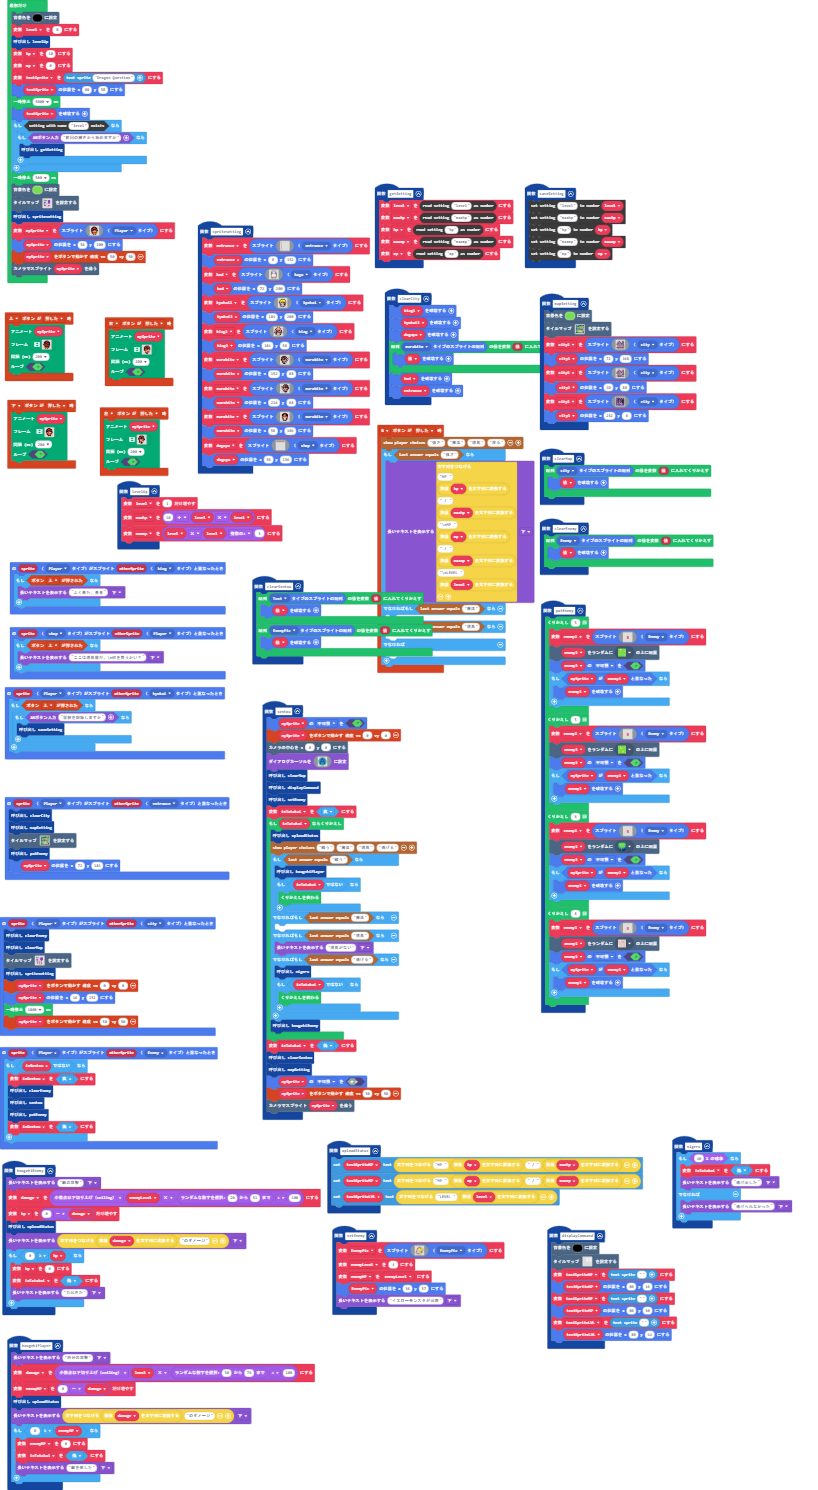
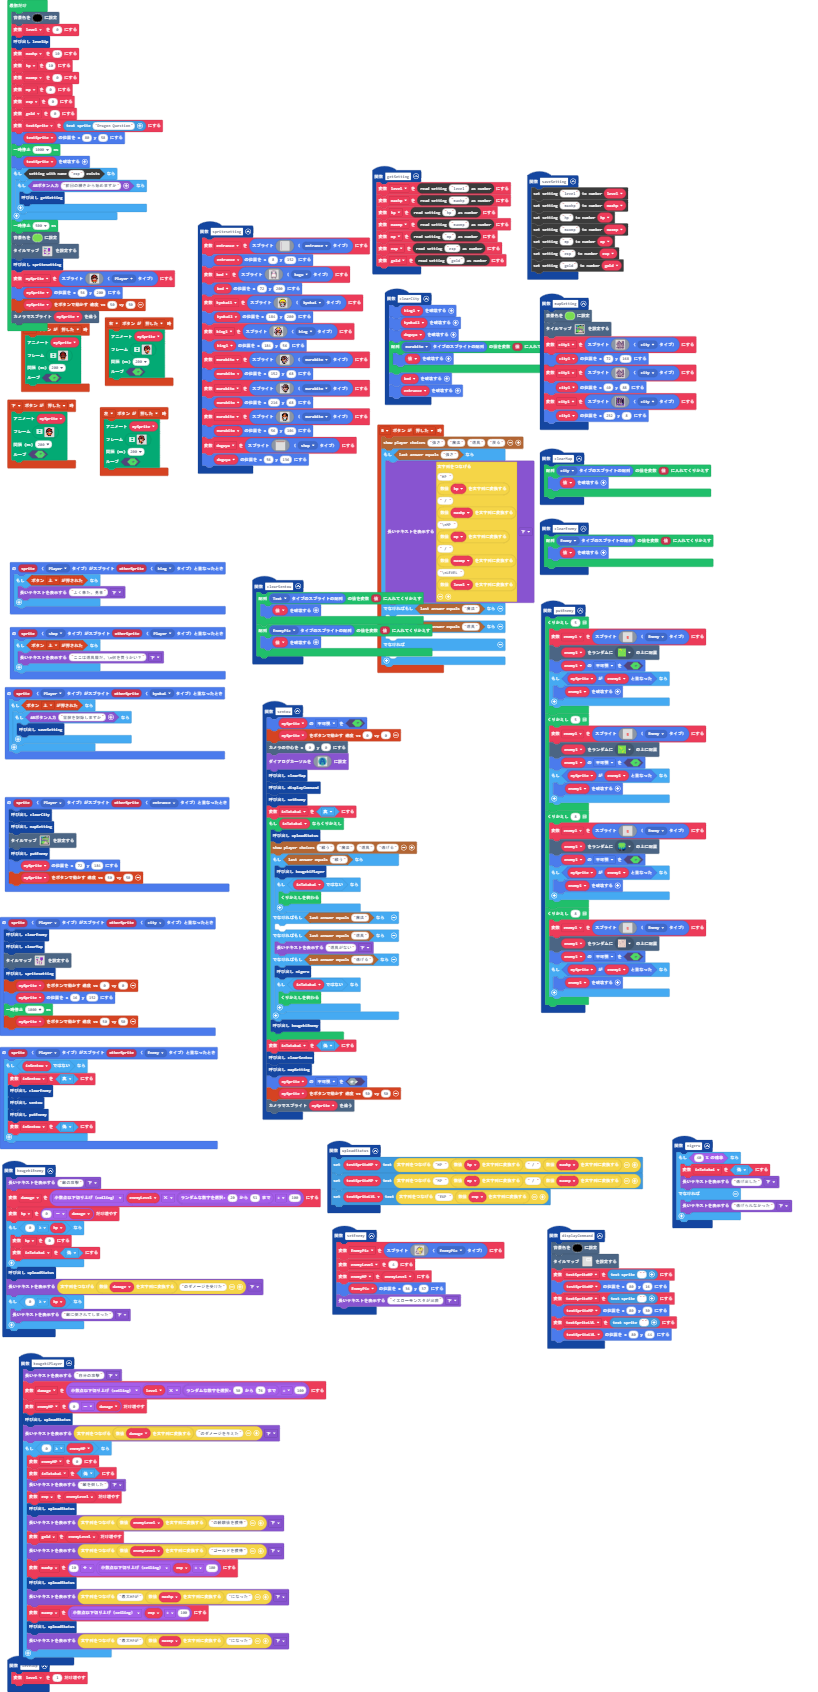
LEVEL消去

diff --git a/main.ts b/main.ts
@@ -90,6 +90,8 @@ function getSetting () {
     hp = blockSettings.readNumber("hp")
     maxmp = blockSettings.readNumber("maxmp")
     mp = blockSettings.readNumber("mp")
+    exp = blockSettings.readNumber("exp")
+    gold = blockSettings.readNumber("gold")
 }
 function putEnemy () {
     for (let index = 0; index < 5; index++) {
@@ -360,11 +362,22 @@ function kougekiPlayer () {
     damage = Math.ceil(level * (randint(30, 76) / 100))
     enemyHP += 0 - damage
     uploadStatus()
-    game.showLongText("" + convertToText(damage) + "のダメージ", DialogLayout.Bottom)
+    game.showLongText("" + convertToText(damage) + "のダメージを与えた", DialogLayout.Bottom)
     if (0 >= enemyHP) {
         enemyHP = 0
         inTatakai = false
         game.showLongText("敵を倒した", DialogLayout.Bottom)
+        exp += enemyLevel
+        uploadStatus()
+        game.showLongText("" + convertToText(enemyLevel) + "の経験値を獲得", DialogLayout.Bottom)
+        gold += enemyLevel
+        game.showLongText("" + convertToText(enemyLevel) + "ゴールドを獲得", DialogLayout.Bottom)
+        maxhp = 10 + Math.ceil(exp / 100)
+        uploadStatus()
+        game.showLongText("最大HPが" + convertToText(maxhp) + "になった", DialogLayout.Bottom)
+        maxmp = Math.ceil(exp / 100)
+        uploadStatus()
+        game.showLongText("最大MPが" + convertToText(maxmp) + "になった", DialogLayout.Bottom)
     }
 }
 function clearSentou () {
@@ -381,11 +394,12 @@ sprites.onOverlap(SpriteKind.Player, SpriteKind.entrance, function (sprite, othe
     tiles.setTilemap(tilemap`レベル2`)
     putEnemy()
     mySprite.setPosition(72, 184)
+    controller.moveSprite(mySprite, 50, 50)
 })
 function uploadStatus () {
     testSpriteHP.setText("HP " + convertToText(hp) + " / " + convertToText(maxhp))
     textSpriteMP.setText("MP " + convertToText(mp) + " / " + convertToText(maxmp))
-    textSpriteLVL.setText("LEVEL " + convertToText(level))
+    textSpriteLVL.setText("EXP " + convertToText(exp))
 }
 function sentou () {
     mySprite.setFlag(SpriteFlag.Invisible, true)
@@ -446,8 +460,6 @@ function nigeru () {
 }
 function levelUp () {
     level += 1
-    maxhp = 10 + level * level
-    maxmp = Math.idiv(level * level, 3)
 }
 controller.down.onEvent(ControllerButtonEvent.Pressed, function () {
     animation.runImageAnimation(
@@ -762,12 +774,14 @@ function kougekiEnemy () {
     game.showLongText("敵の攻撃", DialogLayout.Bottom)
     damage = Math.ceil(enemyLevel * (randint(20, 51) / 100))
     hp += 0 - damage
-    uploadStatus()
-    game.showLongText("" + convertToText(damage) + "のダメージ", DialogLayout.Bottom)
     if (0 >= hp) {
         hp = 0
         inTatakai = false
-        game.showLongText("力尽きた", DialogLayout.Bottom)
+    }
+    uploadStatus()
+    game.showLongText("" + convertToText(damage) + "のダメージを受けた", DialogLayout.Bottom)
+    if (0 >= hp) {
+        game.showLongText("敵に倒されてしまった", DialogLayout.Bottom)
     }
 }
 function saveSetting () {
@@ -776,6 +790,8 @@ function saveSetting () {
     blockSettings.writeNumber("hp", hp)
     blockSettings.writeNumber("maxmp", maxmp)
     blockSettings.writeNumber("mp", mp)
+    blockSettings.writeNumber("exp", exp)
+    blockSettings.writeNumber("gold", gold)
 }
 sprites.onOverlap(SpriteKind.shop, SpriteKind.Player, function (sprite, otherSprite) {
     if (controller.up.isPressed()) {
@@ -834,12 +850,12 @@ sprites.onOverlap(SpriteKind.Player, SpriteKind.Enemy, function (sprite, otherSp
     }
 })
 let inSentou = false
-let enemyLevel = 0
 let EnemyPic: Sprite = null
 let city1: Sprite = null
 let textSpriteLVL: TextSprite = null
 let textSpriteMP: TextSprite = null
 let testSpriteHP: TextSprite = null
+let enemyLevel = 0
 let inTatakai = false
 let enemyHP = 0
 let damage = 0
@@ -850,22 +866,28 @@ let kyokai1: Sprite = null
 let bed: Sprite = null
 let entrance: Sprite = null
 let enemy1: Sprite = null
-let maxmp = 0
-let maxhp = 0
 let mySprite: Sprite = null
+let gold = 0
+let exp = 0
 let mp = 0
+let maxmp = 0
 let hp = 0
+let maxhp = 0
 let level = 0
 scene.setBackgroundColor(15)
 level = 0
 levelUp()
+maxhp = 10
 hp = 10
+maxmp = 0
 mp = 0
+exp = 0
+gold = 0
 let textSprite = textsprite.create("Dragon Question")
 textSprite.setPosition(80, 58)
-pause(5000)
+pause(1000)
 textSprite.destroy()
-if (blockSettings.exists("level")) {
+if (blockSettings.exists("exp")) {
     if (game.ask("前回の続きから始めますか")) {
         getSetting()
     }
